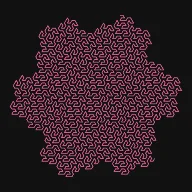
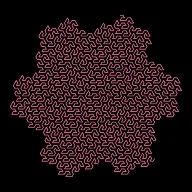
Pattern modes on pure black, like the fractals
Koch, tree, line curves and IFS point patterns painted #111 (and the page
body was #111); all black now. Thumbnails re-rendered. render_thumbs
retries deleting Chrome's profile, which could still be busy at exit.

diff --git a/colormaps.js b/colormaps.js
@@ -62,7 +62,7 @@ const COLORMAPS = [
 // Flat colors for the modes that aren't depth-mapped escape-time images:
 // the fern/IFS point clouds and the Koch/tree/line-curve drawings. Those
 // used to sample COLORMAPS at depth/maxDepth, which puts low depths at the
-// colormap's dark end -- near-invisible on the #111 background. Index 0
+// colormap's dark end -- near-invisible on the black background. Index 0
 // (green) is the fern's default; each line mode has its own default in
 // app.js (vectorColors).
 const SOLID_COLORS = [

diff --git a/index.html b/index.html
@@ -24,7 +24,7 @@
      plain web build can't see that setting. See TODO.md. */
   :root { --text-scale: 1; font-size: calc(16px * var(--text-scale)); }
   html, body {
-    margin: 0; padding: 0; background: #111; height: 100%;
+    margin: 0; padding: 0; background: #000; height: 100%;
     overflow: hidden; touch-action: none;
   }
   body { font: 0.75rem/1.4 -apple-system, system-ui, sans-serif; color: #ddd; }

diff --git a/fern.js b/fern.js
@@ -76,7 +76,7 @@ function ifsPoints(transforms, n) {
 }
 
 // Background the fern fades its SOLID_COLORS color from (colormaps.js).
-const IFS_BG = [17, 17, 17];
+const IFS_BG = [0, 0, 0];
 
 // --- Viewport-adaptive sampling --------------------------------------------
 // A single global point cloud (the original approach) goes sparse on zoom:

diff --git a/dragon.js b/dragon.js
@@ -116,7 +116,7 @@ function createCurveView(canvas) {
       cachedPts = LINE_CURVES[curve].points(opts.depth);
       cachedKey = key;
     }
-    ctx.fillStyle = "#111";
+    ctx.fillStyle = "#000";
     ctx.fillRect(0, 0, canvas.width, canvas.height);
 
     // All of a curve's segments are the same length, so the first one sets

diff --git a/pythagoras.js b/pythagoras.js
@@ -96,7 +96,7 @@ function createPythagorasTreeView(canvas) {
       cachedSquares = pythagorasTree(opts.depth);
       cachedDepth = opts.depth;
     }
-    ctx.fillStyle = "#111";
+    ctx.fillStyle = "#000";
     ctx.fillRect(0, 0, canvas.width, canvas.height);
 
     ctx.fillStyle = solidCss(opts.colorIndex);

diff --git a/koch.js b/koch.js
@@ -71,7 +71,7 @@ function createKochView(canvas) {
       cachedVerts = kochSnowflake(opts.depth);
       cachedDepth = opts.depth;
     }
-    ctx.fillStyle = "#111";
+    ctx.fillStyle = "#000";
     ctx.fillRect(0, 0, canvas.width, canvas.height);
 
     ctx.beginPath();

diff --git a/CHANGELOG.md b/CHANGELOG.md
@@ -2,6 +2,9 @@
 
 Newest version at the top. See CLAUDE.md for when and how to bump.
 
+## 1.14.3 — 2026-10-04
+- Patterns (Koch, tree, curves, fern and the other point patterns) now sit on the same pure black as the fractals, instead of dark grey.
+
 ## 1.14.2 — 2026-10-04
 - Faster startup: picker previews load the first time the picker opens, and the info overlay does no work while it's hidden.
 
